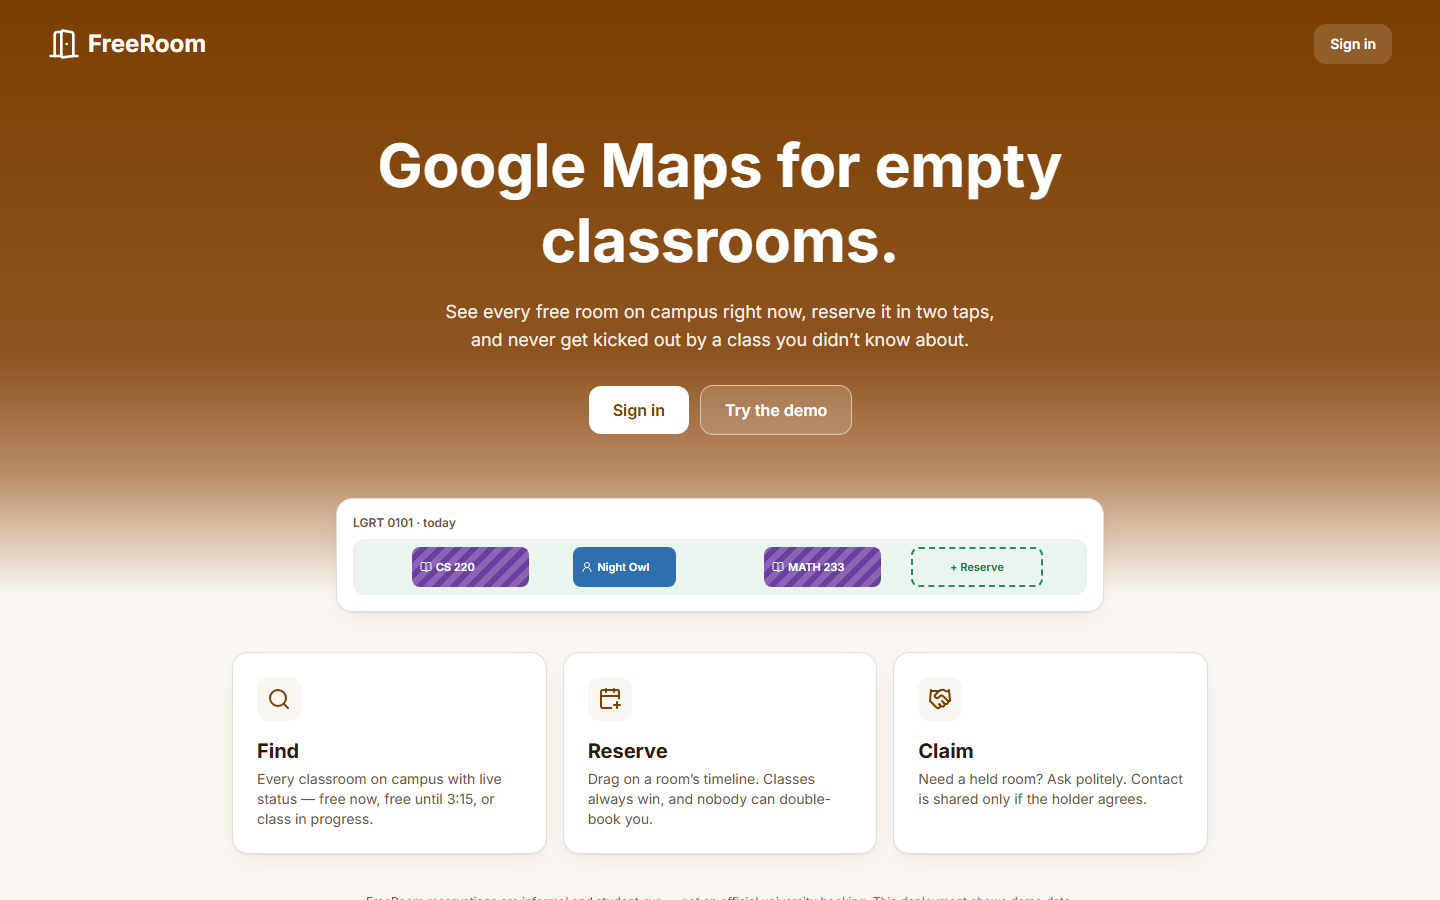
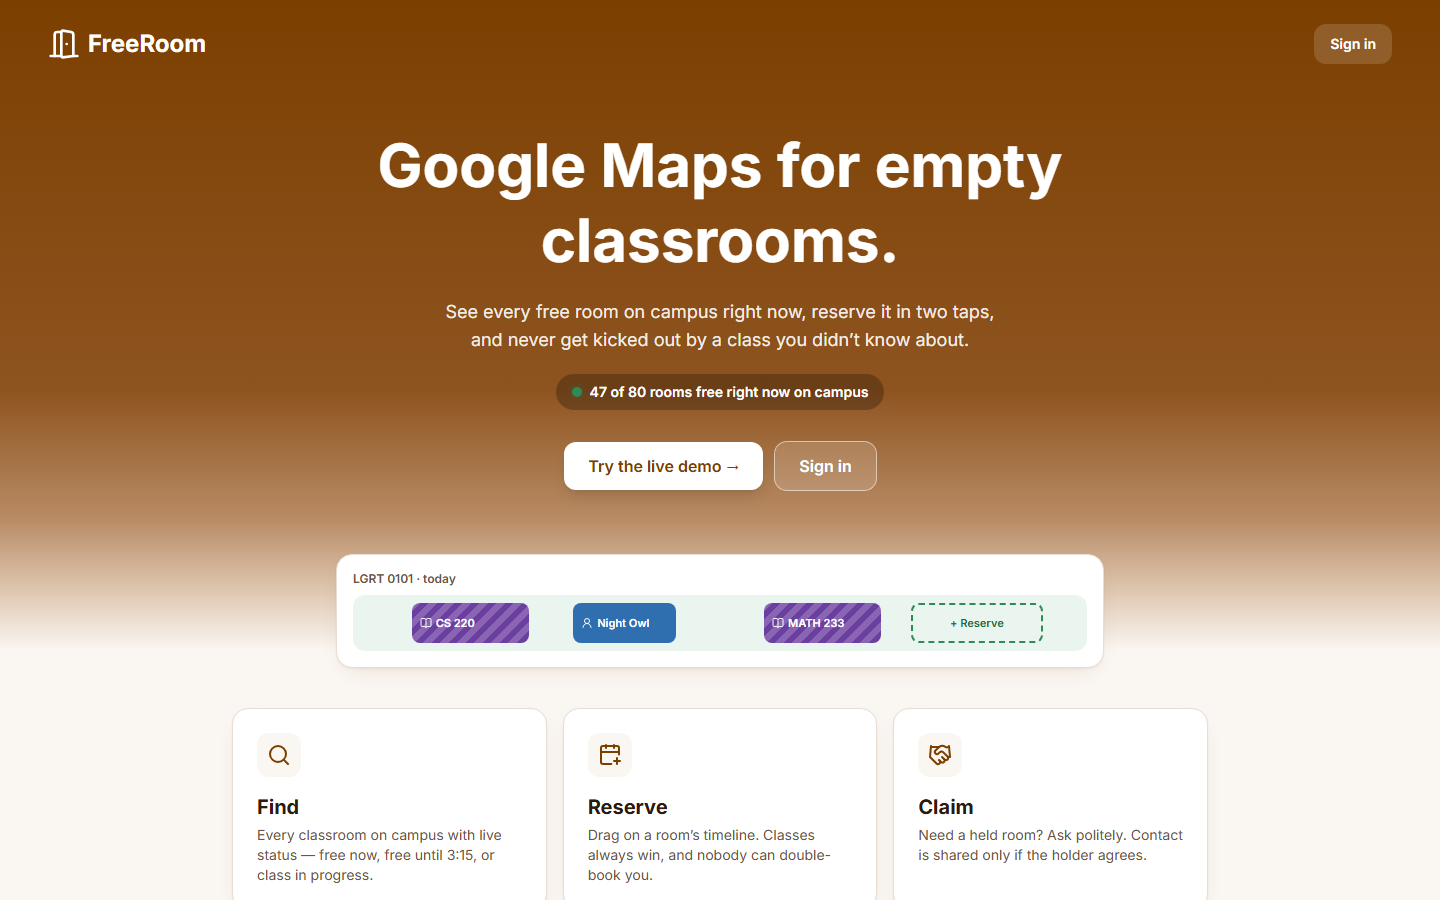
feat(web): judge-ready landing and screenshot matrix
- /welcome: live 'N of M rooms free right now on campus' from the public /buildings,
  one obvious white 'Try the live demo' CTA (both themes), mini timeline hidden on phones.
- 'How it works': no double booking (slot locks; 50 parallel requests -> 1 wins, 49
  SLOT_TAKEN), classes always win (release + 3 alternatives), privacy by design (KMS,
  only one Lambda decrypts) - each backed by a named test.
- Review follow-ups: empty 25Live wrapper ('' / null / {}) means no classes; phone
  redaction no longer eats ISO dates; isDay rejects rolled-over dates.
- e2e/screenshots.ts captures landing, map, NL search, timeline (fox), reserve sheet,
  notifications, my reservations in light/dark x desktop/mobile; docs/screenshots refreshed.

diff --git a/apps/web/src/pages/LandingPage.tsx b/apps/web/src/pages/LandingPage.tsx
@@ -1,10 +1,40 @@
 /** Logged-out landing: vertical gradient hero, pitch, sign in / try the demo, three feature cards. */
-import { BookOpen, CalendarPlus, DoorOpen, Handshake, Search, UserRound } from 'lucide-react';
+import { useQuery } from '@tanstack/react-query';
+import {
+  BookOpen,
+  CalendarPlus,
+  DoorOpen,
+  Handshake,
+  LockKeyhole,
+  Search,
+  ShieldCheck,
+  Swords,
+  UserRound,
+} from 'lucide-react';
 import { Link, Navigate } from 'react-router';
 import { useAuth } from '@/auth/AuthProvider';
 import { buttonVariants } from '@/components/ui/button';
 import { useConfig } from '@/config';
 import { cn } from '@/lib/utils';
+
+/** "How it works": each claim is backed by a named test in the repo. */
+const DEPTH = [
+  {
+    Icon: LockKeyhole,
+    title: 'No double booking, ever',
+    body: 'Every 15-minute slot is a lock item written in one DynamoDB transaction. Tested with 50 parallel requests for the same slot: exactly 1 wins, 49 get SLOT_TAKEN.',
+  },
+  {
+    Icon: Swords,
+    title: 'Classes always win',
+    body: 'When 25Live adds a class over a booking, the sync releases it in one transaction and the holder is offered 3 free alternatives nearby.',
+  },
+  {
+    Icon: ShieldCheck,
+    title: 'Private by design',
+    body: 'Contact details are KMS-encrypted; only one Lambda can decrypt them, and only after the holder approves your request. IDs are stored as HMACs.',
+  },
+];
 
 const FEATURES = [
   {
@@ -25,8 +55,22 @@ const FEATURES = [
 ];
 
 export function LandingPage() {
-  const { status } = useAuth();
+  const { status, api } = useAuth();
   const config = useConfig();
+  // Live proof on the first screen: public, cached 10s server-side, refreshed every 30s.
+  const live = useQuery({
+    queryKey: ['landing-buildings'],
+    queryFn: api.buildings,
+    refetchInterval: 30_000,
+    enabled: status !== 'ready',
+  });
+  const counts = live.data?.buildings.reduce(
+    (a, b) => ({
+      free: a.free + Math.round((b.freePct * b.roomCount) / 100),
+      all: a.all + b.roomCount,
+    }),
+    { free: 0, all: 0 },
+  );
   if (status === 'ready') return <Navigate to="/" replace />;
   return (
     <div className="min-h-dvh bg-cream">
@@ -47,39 +91,50 @@ export function LandingPage() {
             See every free room on campus right now, reserve it in two taps, and never get kicked
             out by a class you didn’t know about.
           </p>
+          <p className="mx-auto mt-5 inline-flex min-h-9 items-center gap-2 rounded-full bg-black/25 px-4 py-1.5 text-sm font-semibold">
+            <span className="relative flex size-2.5" aria-hidden>
+              <span className="absolute inline-flex size-full animate-ping rounded-full bg-free opacity-75" />
+              <span className="relative inline-flex size-2.5 rounded-full bg-free" />
+            </span>
+            <span aria-live="polite">
+              {counts && counts.all
+                ? `${counts.free} of ${counts.all} rooms free right now on campus`
+                : 'Checking which rooms are free right now…'}
+            </span>
+          </p>
           <div className="mt-8 flex flex-wrap justify-center gap-3">
-            <Link
-              to="/login"
-              className={cn(
-                buttonVariants({ size: 'lg' }),
-                'bg-surface text-brown-ink hover:bg-cream',
-              )}
-            >
-              Sign in
-            </Link>
             {config.demoMode && (
               <Link
                 to="/login"
                 state={{ demo: true }}
                 className={cn(
-                  buttonVariants({ size: 'lg', variant: 'light' }),
-                  'ring-1 ring-white/60',
+                  buttonVariants({ size: 'lg' }),
+                  'bg-white text-[#7b3f00] shadow-lg hover:bg-white/90', // white in both themes: the one obvious CTA,
                 )}
               >
-                Try the demo
+                Try the live demo →
               </Link>
             )}
             {!config.demoMode && config.demoUrl && (
               <a
                 href={config.demoUrl}
                 className={cn(
-                  buttonVariants({ size: 'lg', variant: 'light' }),
-                  'ring-2 ring-white/70',
+                  buttonVariants({ size: 'lg' }),
+                  'bg-white text-[#7b3f00] shadow-lg hover:bg-white/90', // white in both themes: the one obvious CTA,
                 )}
               >
                 Try the live demo →
               </a>
             )}
+            <Link
+              to="/login"
+              className={cn(
+                buttonVariants({ size: 'lg', variant: 'light' }),
+                'ring-1 ring-white/60',
+              )}
+            >
+              Sign in
+            </Link>
           </div>
           {!config.demoMode && config.demoUrl && (
             <p className="mt-3 text-sm text-white/85">
@@ -93,7 +148,7 @@ export function LandingPage() {
       <main className="mx-auto -mt-24 max-w-5xl px-6 pb-16">
         <div
           aria-hidden
-          className="mx-auto mb-10 max-w-3xl rounded-2xl border border-line bg-surface p-4 shadow-card"
+          className="mx-auto mb-10 hidden max-w-3xl rounded-2xl border border-line bg-surface p-4 shadow-card sm:block"
         >
           <p className="mb-2 text-xs font-semibold text-muted">LGRT 0101 · today</p>
           <div className="relative h-14 rounded-xl bg-free-50">
@@ -122,6 +177,23 @@ export function LandingPage() {
             </li>
           ))}
         </ul>
+        <section aria-labelledby="how" className="mt-14">
+          <h2 id="how" className="text-center text-2xl font-bold">
+            How it works
+          </h2>
+          <p className="mt-1 text-center text-sm text-muted">
+            Serverless on AWS. Each guarantee below is enforced on the server and covered by tests.
+          </p>
+          <ul className="mt-6 grid gap-4 md:grid-cols-3">
+            {DEPTH.map(({ Icon, title, body }) => (
+              <li key={title} className="rounded-2xl border border-line bg-surface p-6 shadow-card">
+                <Icon className="size-6 text-brown-ink" aria-hidden />
+                <h3 className="mt-3 text-lg font-bold">{title}</h3>
+                <p className="mt-1 text-sm text-muted">{body}</p>
+              </li>
+            ))}
+          </ul>
+        </section>
         <p className="mt-10 text-center text-xs text-muted">
           FreeRoom reservations are informal and student-run — not an official university booking.
           {config.demoMode && ' This deployment shows demo data.'}

diff --git a/e2e/screenshots.ts b/e2e/screenshots.ts
@@ -1,60 +1,104 @@
-/** Re-capture docs/screenshots/*.png from the current UI at 1440×900 (local stack, dev sign-in). */
-import { chromium, expect } from '@playwright/test';
+/**
+ * Re-capture docs/screenshots from the current UI (local stack, dev sign-in):
+ * landing, map, timeline, reserve sheet, my reservations, notifications, NL search —
+ * light + dark × desktop (1440×900) + mobile (390×844). The fox is visible in timeline-light-desktop.
+ * Desktop-light shots keep their old names (landing.png, map.png, …) for the README.
+ * Usage: (pnpm dev:api; pnpm dev:web) then `npx tsx screenshots.ts` [BASE_URL=…]
+ */
+import { chromium, expect, type Page } from '@playwright/test';
 import { login } from './helpers';
 
-const BASE = process.env.BASE_URL ?? 'http://localhost:5174';
+const BASE = process.env.BASE_URL ?? 'http://localhost:5173';
 const OUT = '../docs/screenshots';
-const browser = await chromium.launch();
-const ctx = await browser.newContext({ baseURL: BASE, viewport: { width: 1440, height: 900 } });
-const page = await ctx.newPage();
 const day = (plus: number) =>
   new Intl.DateTimeFormat('en-CA', { timeZone: 'America/New_York' }).format(
     new Date(Date.now() + plus * 86_400_000),
   );
-const shot = async (name: string) => {
-  await page.waitForTimeout(1200);
-  await page.screenshot({ path: `${OUT}/${name}.png` });
-};
 
-await page.goto('/welcome');
-await shot('landing');
-await login(page, { id: 'student1', alias: 'Night Owl' });
-await page.goto('/map');
-const m = page.getByRole('button', { name: /% of rooms free/ });
-await expect(m.first()).toBeVisible();
-const lowest = (await m.allInnerTexts()).map((t) => parseInt(t, 10)).sort((a, b) => a - b)[0];
-await page
-  .getByRole('button', { name: new RegExp(`: ${lowest}% of rooms free`) })
-  .first()
-  .click();
-await page.waitForTimeout(2500); // tiles
-await shot('map');
-await page.getByRole('searchbox').fill('room for 6 with a projector near the library at 3pm');
-await page.getByRole('searchbox').press('Enter');
-await expect(page.getByLabel('Search filters')).toBeVisible();
-await shot('nl-search');
-for (let d = 1; d <= 5; d++) {
-  await page.goto(`/rooms/LGRT-0101?date=${day(d)}`);
-  if (
-    await page
+const browser = await chromium.launch();
+for (const theme of ['light', 'dark'] as const) {
+  for (const device of ['desktop', 'mobile'] as const) {
+    const mobile = device === 'mobile';
+    const ctx = await browser.newContext({
+      baseURL: BASE,
+      viewport: mobile ? { width: 390, height: 844 } : { width: 1440, height: 900 },
+      deviceScaleFactor: mobile ? 2 : 1,
+      colorScheme: theme,
+      hasTouch: mobile,
+      isMobile: mobile,
+    });
+    const page = await ctx.newPage();
+    const name = (base: string) =>
+      theme === 'light' && !mobile ? base : `${base}-${theme}-${device}`;
+    const shot = async (base: string) => {
+      await page.waitForTimeout(1200);
+      await page.screenshot({ path: `${OUT}/${name(base)}.png` });
+    };
+    await capture(page, shot, { mobile, fox: theme === 'light' && !mobile });
+    await ctx.close();
+  }
+}
+await browser.close();
+console.log('screenshots written');
+
+async function capture(
+  page: Page,
+  shot: (base: string) => Promise<void>,
+  o: { mobile: boolean; fox: boolean },
+) {
+  await page.goto('/welcome');
+  await page.getByText(/rooms free right now/).waitFor();
+  await shot('landing');
+  await login(page, { id: 'student1', alias: 'Night Owl' });
+
+  await page.goto('/map');
+  const m = page.getByRole('button', { name: /% of rooms free/ });
+  await expect(m.first()).toBeVisible();
+  const lowest = (await m.allInnerTexts()).map((t) => parseInt(t, 10)).sort((a, b) => a - b)[0];
+  await page
+    .getByRole('button', { name: new RegExp(`: ${lowest}% of rooms free`) })
+    .first()
+    .click();
+  await page.waitForTimeout(2500); // tiles
+  await shot('map');
+
+  await page.goto('/');
+  await page.getByRole('searchbox').fill('room for 6 with a projector near the library at 3pm');
+  await page.getByRole('searchbox').press('Enter');
+  await expect(page.getByLabel('Search filters')).toBeVisible();
+  await shot('nl-search');
+
+  for (let d = 1; d <= 5; d++) {
+    await page.goto(`/rooms/LGRT-0101?date=${day(d)}`);
+    const hasClass = await page
       .getByRole('button', { name: /^Class:/ })
       .first()
       .waitFor({ timeout: 4000 })
       .then(
         () => true,
         () => false,
-      )
-  )
-    break;
+      );
+    if (hasClass) break;
+  }
+  const cls = page.getByRole('button', { name: /^Class:/ }).first();
+  if (o.mobile) await cls.tap();
+  else await cls.hover();
+  if (o.fox) {
+    // Bring the fox into frame next to the class popover.
+    const b = (await cls.boundingBox())!;
+    await page.mouse.move(b.x + b.width + 160, b.y + 60, { steps: 12 });
+    await page.waitForTimeout(2600);
+  }
+  await shot('timeline');
+
+  await page.keyboard.press('Escape');
+  await page.getByRole('button', { name: /^Reserve( a time)?$/ }).click();
+  await expect(page.getByRole('dialog', { name: /^Reserve / })).toBeVisible();
+  await shot('reserve-sheet');
+  await page.keyboard.press('Escape');
+
+  await page.goto('/notifications');
+  await shot('notifications');
+  await page.goto('/me');
+  await shot('my-reservations');
 }
-await page
-  .getByRole('button', { name: /^Class:/ })
-  .first()
-  .hover();
-await shot('timeline');
-await page.goto('/notifications');
-await shot('notifications');
-await page.goto('/me');
-await shot('my-reservations');
-await browser.close();
-console.log('screenshots written');

diff --git a/services/api/src/twentyfive/mapper.ts b/services/api/src/twentyfive/mapper.ts
@@ -45,12 +45,13 @@ export const unwrapSpaces = (json: unknown): RawSpace[] =>
  * The wrapper present with no `reservation` list is a genuinely empty day.
  */
 export const unwrapReservations = (json: unknown): RawReservation[] => {
-  const wrapper = (json as { reservations?: { reservation?: RawReservation[] } } | null)
-    ?.reservations;
-  if (!wrapper || typeof wrapper !== 'object') {
+  if (!json || typeof json !== 'object' || !('reservations' in json)) {
     throw new Error('25Live: unexpected reservations payload (missing "reservations")');
   }
-  return wrapper.reservation ?? [];
+  // XML-to-JSON renders an empty day as "", null or {}: all mean "no classes".
+  const wrapper = (json as { reservations?: { reservation?: RawReservation[] } | '' | null })
+    .reservations;
+  return (wrapper && typeof wrapper === 'object' && wrapper.reservation) || [];
 };
 
 // TODO(25live): confirm feature names used by UMass.

diff --git a/services/api/test/logger.test.ts b/services/api/test/logger.test.ts
@@ -34,12 +34,14 @@ describe('logger redaction', () => {
       phoneNumber: '+1 413 555 0100',
       userEmail: 'a@b.edu',
       err: new Error('lookup failed for jane.doe@umass.edu / 413-555-0100'),
+      when: new Error('sync failed for ROOM#CS-0101 on 2026-11-15T10:00:00Z'),
       deep,
     }) as Record<string, unknown>;
     expect(out.phoneNumber).toBe('[REDACTED]');
     expect(out.userEmail).toBe('[REDACTED]');
     expect(JSON.stringify(out.err)).not.toMatch(/umass.edu|555/);
     expect(JSON.stringify(out.deep)).not.toContain('leak');
+    expect(JSON.stringify(out.when)).toContain('2026-11-15T10:00:00Z'); // dates/ids stay readable
   });
 
   it('writes one JSON line with correlation id from child loggers', () => {

diff --git a/apps/web/src/lib/time.ts b/apps/web/src/lib/time.ts
@@ -38,6 +38,9 @@ export function freeUntilLabel(freeUntil: string | null) {
 
 /** URL params are user-editable: only well-formed values reach date math (audit L3). */
 export const isDay = (s: string | null | undefined): s is string =>
-  !!s && /^\d{4}-(0[1-9]|1[0-2])-(0[1-9]|[12]\d|3[01])$/.test(s) && !Number.isNaN(Date.parse(s));
+  !!s &&
+  /^\d{4}-\d{2}-\d{2}$/.test(s) &&
+  !Number.isNaN(Date.parse(s)) &&
+  new Date(s).toISOString().slice(0, 10) === s; // rejects rolled-over dates like 2026-02-31
 export const isHm = (s: string | null | undefined): s is string =>
   !!s && /^([01]\d|2[0-3]):[0-5]\d$/.test(s);

diff --git a/services/api/src/logger.ts b/services/api/src/logger.ts
@@ -4,7 +4,8 @@ const REDACT_KEY =
   /universityid|uidhash|email|phone|contact|authorization|cookie|password|secret|token|x-dev-user|enc$/i;
 // PII that can hide inside free text (error messages).
 const EMAIL = /[^\s@]+@[^\s@]+\.[^\s@]+/g;
-const PHONE = /\+?\d[\d\s().-]{6,}\d/g;
+// Phone-shaped (413-555-0100, (413) 555 0100, +1 413 555 0100) — not ISO dates or ids.
+const PHONE = /(\+?\d{1,3}[\s.-])?\(?\d{3}\)?[\s.-]\d{3}[\s.-]\d{4}\b/g;
 const scrub = (s: string) => s.replace(EMAIL, '[REDACTED]').replace(PHONE, '[REDACTED]');
 
 export function redact(value: unknown, depth = 0): unknown {

diff --git a/apps/web/src/lib/time.test.ts b/apps/web/src/lib/time.test.ts
@@ -8,7 +8,16 @@ describe('URL param guards (audit L3)', () => {
     expect(isHm('23:59')).toBe(true);
   });
   it('rejects garbage that used to crash the page', () => {
-    for (const bad of ['foo', '', null, undefined, '2026-13-01', '2026-11-32', '17/11/2026'])
+    for (const bad of [
+      'foo',
+      '',
+      null,
+      undefined,
+      '2026-13-01',
+      '2026-11-32',
+      '2026-02-31',
+      '17/11/2026',
+    ])
       expect(isDay(bad)).toBe(false);
     for (const bad of ['9:30', '24:00', '12:60', 'noon', null]) expect(isHm(bad)).toBe(false);
   });

diff --git a/services/api/test/syncResilience.test.ts b/services/api/test/syncResilience.test.ts
@@ -68,6 +68,8 @@ describe('sync resilience (BR-1)', () => {
     expect(() => unwrapReservations({ unexpected: true })).toThrow();
     expect(() => unwrapReservations(null)).toThrow();
     expect(unwrapReservations({ reservations: {} })).toEqual([]); // genuinely empty is fine
+    expect(unwrapReservations({ reservations: '' })).toEqual([]);
+    expect(unwrapReservations({ reservations: null })).toEqual([]);
   });
 });
 
